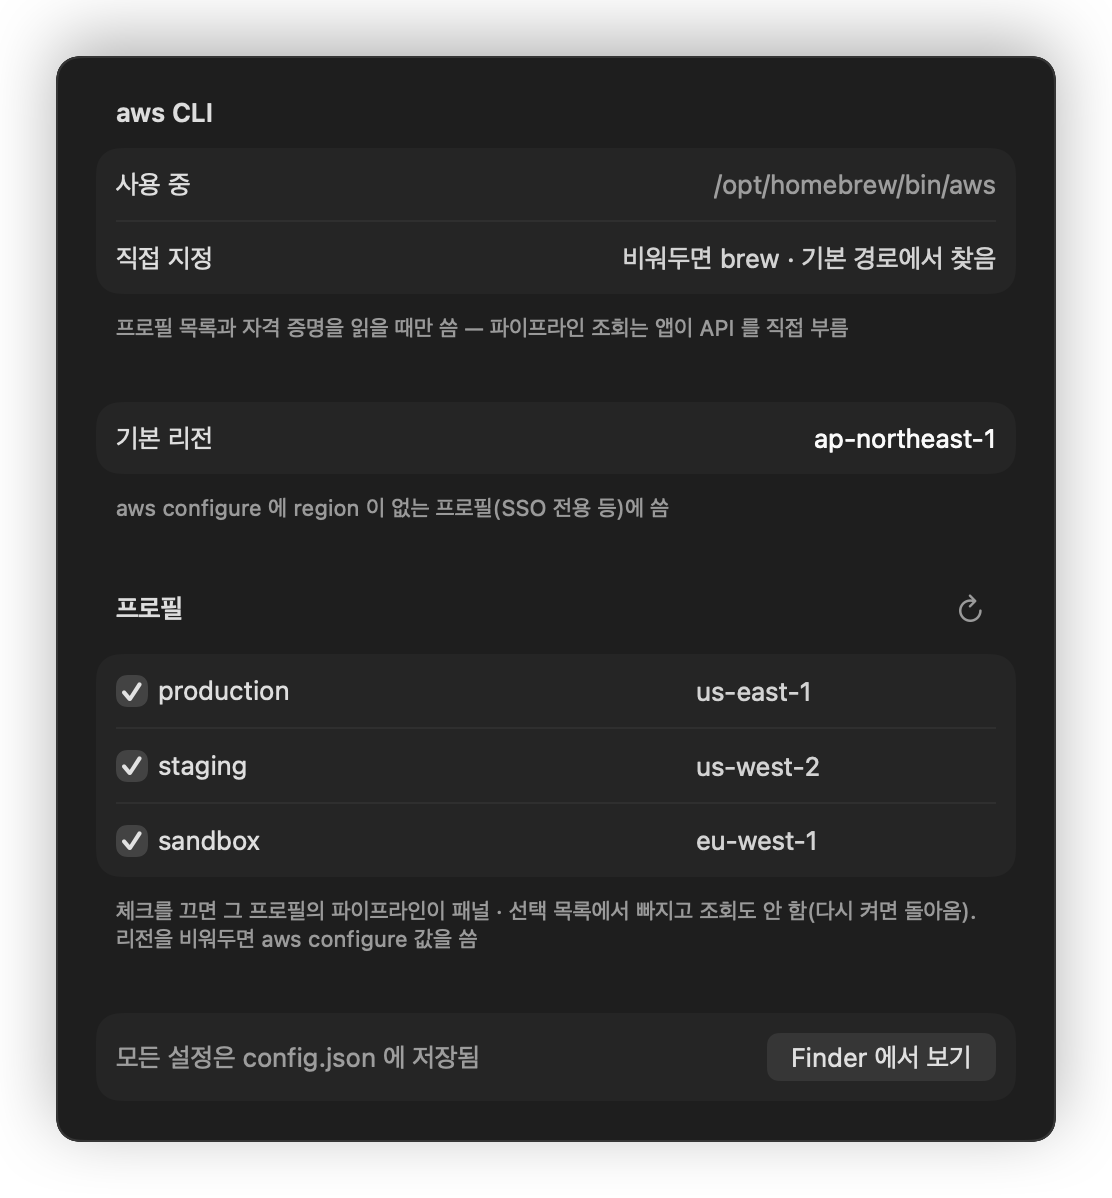
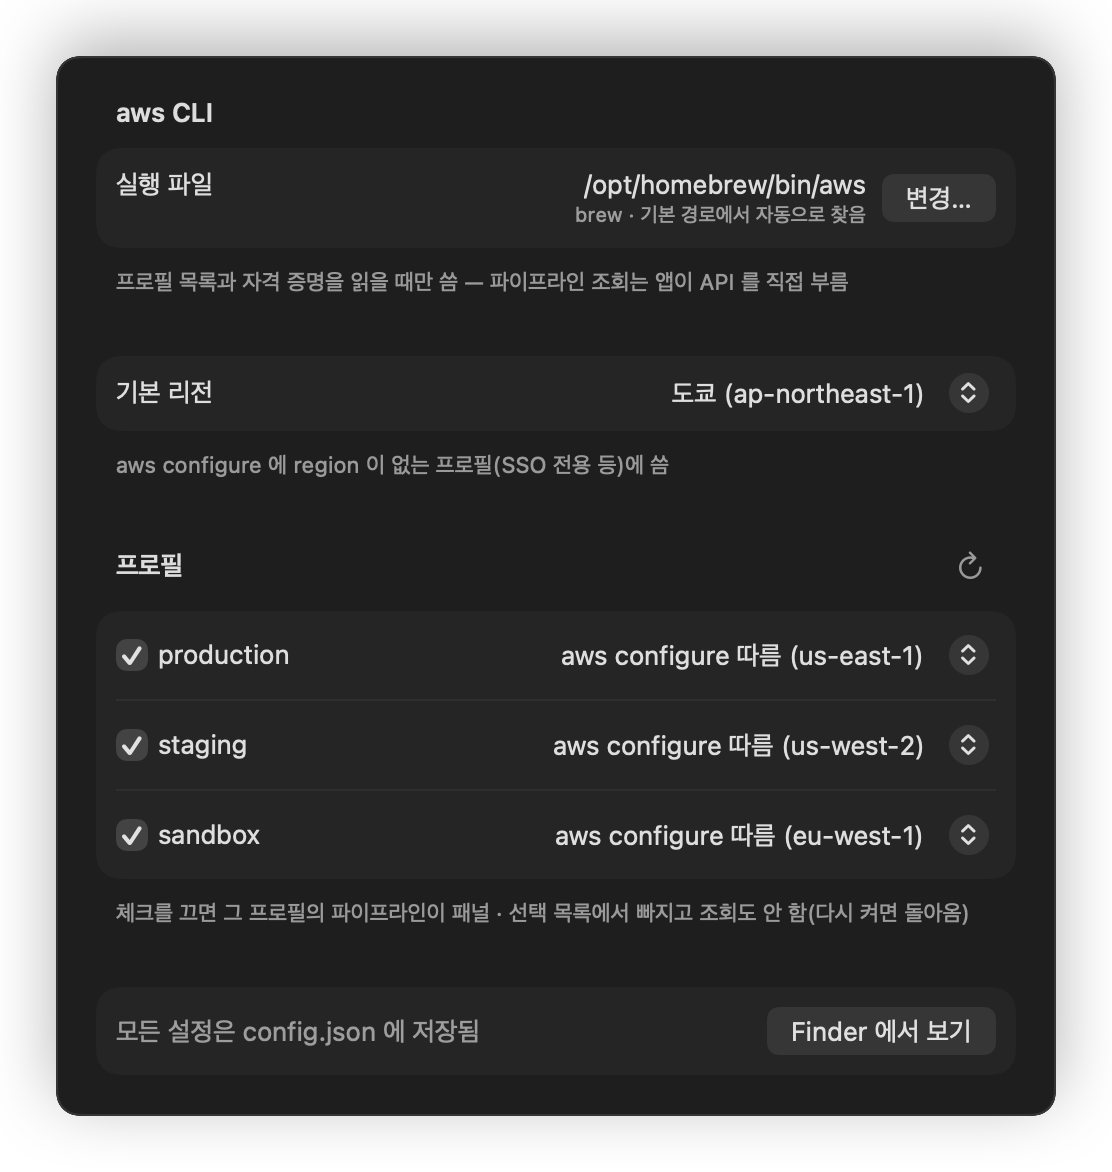
fix: 설정 창 입력을 버튼 · 선택 목록으로 바꿔 헷갈리지 않게
- aws 경로는 Finder 에서 고르는 변경… 버튼과 자동으로 되돌리기, 경로 글자는 선택 안 되게
- 기본 리전 · 프로필 리전은 이름이 붙은 리전 목록에서 고름, 프로필은 aws configure 값을 같이 보여줌
- 설정 창 제목이 Untitled 대신 탭 이름으로 뜨게

diff --git a/Sources/CrowsnestKit/Views/SettingsView.swift b/Sources/CrowsnestKit/Views/SettingsView.swift
@@ -30,6 +30,8 @@ enum SettingsWindow {
             .fixedSize(horizontal: false, vertical: maximumHeight == nil)
         let controller = NSHostingController(rootView: sized)
         controller.sizingOptions = .preferredContentSize
+        // 탭 컨트롤러가 이 이름을 창 제목으로 올림 — 없으면 Untitled 로 뜸
+        controller.title = label
         let item = NSTabViewItem(viewController: controller)
         item.label = label
         item.image = NSImage(systemSymbolName: symbol, accessibilityDescription: label)
@@ -155,20 +157,7 @@ struct AWSSettings: View {
     var body: some View {
         Form {
             Section {
-                LabeledContent("사용 중") {
-                    Text(store.awsCLIPath ?? "못 찾음")
-                        .foregroundStyle(store.awsCLIPath == nil ? .orange : .secondary)
-                        .textSelection(.enabled)
-                }
-                CommittingTextField(
-                    title: "직접 지정",
-                    placeholder: "비워두면 brew · 기본 경로에서 찾음",
-                    value: store.configuration.awsCLIPath ?? "",
-                    isValid: { $0.isEmpty || FileManager.default.isExecutableFile(atPath: $0) },
-                    invalidMessage: "실행할 수 있는 파일이 아님"
-                ) { path in
-                    store.updateConfiguration { $0.awsCLIPath = path.isEmpty ? nil : path }
-                }
+                AWSCLIPathRow(store: store)
             } header: {
                 Text("aws CLI")
             } footer: {
@@ -177,14 +166,8 @@ struct AWSSettings: View {
             }
 
             Section {
-                CommittingTextField(
-                    title: "기본 리전",
-                    placeholder: "ap-northeast-2",
-                    value: store.configuration.defaultRegion,
-                    isValid: AWSRegion.isValid,
-                    invalidMessage: "리전 형식이 아님 (예: ap-northeast-2)"
-                ) { region in
-                    store.updateConfiguration { $0.defaultRegion = region }
+                Picker("기본 리전", selection: setting(store, \.defaultRegion)) {
+                    RegionOptions(current: store.configuration.defaultRegion)
                 }
             } footer: {
                 Text("aws configure 에 region 이 없는 프로필(SSO 전용 등)에 씀")
@@ -238,16 +221,18 @@ private struct ProfileSettings: View {
                     }
                     .toggleStyle(.checkbox)
                     Spacer()
-                    CommittingTextField(
-                        title: nil,
-                        placeholder: catalog.region,
-                        value: store.configuration.regionOverrides[catalog.profile] ?? "",
-                        isValid: { $0.isEmpty || AWSRegion.isValid($0) },
-                        invalidMessage: "리전 형식이 아님"
-                    ) { region in
-                        store.updateConfiguration { $0.regionOverrides[catalog.profile] = region.isEmpty ? nil : region }
+                    Picker("리전", selection: Binding(
+                        get: { store.configuration.regionOverrides[catalog.profile] },
+                        set: { region in store.updateConfiguration { $0.regionOverrides[catalog.profile] = region } }
+                    )) {
+                        // 덮어쓰지 않았을 때 catalog.region 은 aws configure 에서 읽은 값
+                        let configured = store.configuration.regionOverrides[catalog.profile] == nil ? " (\(catalog.region))" : ""
+                        Text("aws configure 따름\(configured)").tag(String?.none)
+                        Divider()
+                        RegionOptions(current: store.configuration.regionOverrides[catalog.profile], asOptional: true)
                     }
-                    .frame(width: 150)
+                    .labelsHidden()
+                    .fixedSize()
                 }
             }
         } header: {
@@ -262,55 +247,83 @@ private struct ProfileSettings: View {
                 )
             }
         } footer: {
-            Text("체크를 끄면 그 프로필의 파이프라인이 패널 · 선택 목록에서 빠지고 조회도 안 함(다시 켜면 돌아옴). 리전을 비워두면 aws configure 값을 씀")
+            Text("체크를 끄면 그 프로필의 파이프라인이 패널 · 선택 목록에서 빠지고 조회도 안 함(다시 켜면 돌아옴)")
                 .foregroundStyle(.secondary)
         }
         .onAppear(perform: store.loadCatalogsIfNeeded)
     }
 }
 
-/// 글자마다 저장하면 연결을 매번 다시 만들어서 Enter 나 다른 곳을 누를 때만 반영
-private struct CommittingTextField: View {
-    let title: String?
-    let placeholder: String
-    let value: String
-    let isValid: (String) -> Bool
-    let invalidMessage: String
-    let commit: (String) -> Void
+/// 쓰는 aws 경로 — 직접 칠 일 없이 Finder 에서 고르고, 자동으로 찾기로 되돌림
+private struct AWSCLIPathRow: View {
+    let store: PipelineStore
+    @State private var pickError: String?
 
-    @State private var text = ""
-    @FocusState private var isFocused: Bool
-
-    private var trimmed: String { text.trimmingCharacters(in: .whitespaces) }
+    private var isCustom: Bool { store.configuration.awsCLIPath != nil }
 
     var body: some View {
-        VStack(alignment: .trailing, spacing: 3) {
-            TextField(title ?? "", text: $text, prompt: Text(placeholder))
-                .labelsHidden(title == nil)
-                .focused($isFocused)
-                .onSubmit(save)
-                .onChange(of: isFocused) { if !isFocused { save() } }
-            if !isValid(trimmed) {
-                Text(invalidMessage)
-                    .font(.caption)
-                    .foregroundStyle(.orange)
+        LabeledContent {
+            HStack(spacing: 8) {
+                VStack(alignment: .trailing, spacing: 1) {
+                    Text(store.awsCLIPath ?? "못 찾음")
+                        .foregroundStyle(store.awsCLIPath == nil ? .orange : .primary)
+                        .lineLimit(1)
+                        .truncationMode(.head)
+                    Text(isCustom ? "직접 고른 경로" : "brew · 기본 경로에서 자동으로 찾음")
+                        .font(.caption)
+                        .foregroundStyle(.secondary)
+                }
+                Button("변경…", action: choose)
+                if isCustom {
+                    Button("자동으로") { store.updateConfiguration { $0.awsCLIPath = nil } }
+                }
+            }
+        } label: {
+            Text("실행 파일")
+            if let pickError {
+                Text(pickError)
             }
         }
-        .onAppear { text = value }
-        .onChange(of: value) { if !isFocused { text = value } }
-        // 입력하다 창을 닫거나 탭을 바꾸면 포커스 변화가 안 와서 여기서도 저장
-        .onDisappear(perform: save)
     }
 
-    private func save() {
-        guard isValid(trimmed), trimmed != value else { return }
-        commit(trimmed)
+    private func choose() {
+        let panel = NSOpenPanel()
+        panel.message = "aws 실행 파일을 고르셈 (터미널에서 which aws 로 확인)"
+        panel.canChooseFiles = true
+        panel.canChooseDirectories = false
+        panel.allowsMultipleSelection = false
+        // /opt/homebrew/bin 같은 숨김 경로도 보여야 고를 수 있음
+        panel.showsHiddenFiles = true
+        panel.directoryURL = URL(fileURLWithPath: store.awsCLIPath.map { ($0 as NSString).deletingLastPathComponent } ?? "/usr/local/bin")
+        guard panel.runModal() == .OK, let url = panel.url else { return }
+        let path = url.path(percentEncoded: false)
+        guard FileManager.default.isExecutableFile(atPath: path) else {
+            pickError = "실행할 수 있는 파일이 아님"
+            return
+        }
+        pickError = nil
+        store.updateConfiguration { $0.awsCLIPath = path }
     }
 }
 
-private extension View {
-    @ViewBuilder
-    func labelsHidden(_ isHidden: Bool) -> some View {
-        if isHidden { labelsHidden() } else { self }
+/// 리전 목록 — 설정 파일에 목록에 없는 리전을 적어뒀어도 선택지에 보이게
+private struct RegionOptions: View {
+    let current: String?
+    var asOptional = false
+
+    private var codes: [String] {
+        let known = AWSRegion.known.map(\.code)
+        guard let current, !known.contains(current) else { return known }
+        return [current] + known
+    }
+
+    var body: some View {
+        ForEach(codes, id: \.self) { code in
+            if asOptional {
+                Text(AWSRegion.label(code)).tag(String?.some(code))
+            } else {
+                Text(AWSRegion.label(code)).tag(code)
+            }
+        }
     }
 }

diff --git a/Sources/CrowsnestKit/AWS/AWSRegion.swift b/Sources/CrowsnestKit/AWS/AWSRegion.swift
@@ -1,0 +1,47 @@
+import Foundation
+
+enum AWSRegion {
+    /// 설정 창에서 고를 수 있는 상용 리전 — 손으로 칠 때 나는 오타를 막으려고 목록으로 받음
+    static let known: [(code: String, name: String)] = [
+        ("ap-northeast-2", "서울"),
+        ("ap-northeast-1", "도쿄"),
+        ("ap-northeast-3", "오사카"),
+        ("ap-east-1", "홍콩"),
+        ("ap-southeast-1", "싱가포르"),
+        ("ap-southeast-2", "시드니"),
+        ("ap-southeast-3", "자카르타"),
+        ("ap-southeast-4", "멜버른"),
+        ("ap-south-1", "뭄바이"),
+        ("ap-south-2", "하이데라바드"),
+        ("us-east-1", "버지니아 북부"),
+        ("us-east-2", "오하이오"),
+        ("us-west-1", "캘리포니아 북부"),
+        ("us-west-2", "오리건"),
+        ("ca-central-1", "캐나다 중부"),
+        ("ca-west-1", "캘거리"),
+        ("sa-east-1", "상파울루"),
+        ("eu-west-1", "아일랜드"),
+        ("eu-west-2", "런던"),
+        ("eu-west-3", "파리"),
+        ("eu-central-1", "프랑크푸르트"),
+        ("eu-central-2", "취리히"),
+        ("eu-north-1", "스톡홀름"),
+        ("eu-south-1", "밀라노"),
+        ("eu-south-2", "스페인"),
+        ("me-south-1", "바레인"),
+        ("me-central-1", "아랍에미리트"),
+        ("il-central-1", "텔아비브"),
+        ("af-south-1", "케이프타운"),
+    ]
+
+    /// 서울 (ap-northeast-2) — 목록에 없는 리전은 코드만
+    static func label(_ code: String) -> String {
+        known.first { $0.code == code }.map { "\($0.name) (\(code))" } ?? code
+    }
+
+    /// ap-northeast-2 · us-gov-west-1 같은 모양만 — 호스트 이름에 들어가서 점 · 슬래시가 섞이면 안 됨
+    static func isValid(_ region: String) -> Bool {
+        // \d 는 다른 문자 체계의 숫자도 받아서 ASCII 숫자로 좁힘
+        region.wholeMatch(of: /[a-z]{2}(-[a-z]+)+-[0-9]+/) != nil
+    }
+}

diff --git a/Sources/CrowsnestKit/AWS/CodePipelineClient.swift b/Sources/CrowsnestKit/AWS/CodePipelineClient.swift
@@ -73,14 +73,6 @@ struct CodePipelineClient: Sendable {
     }
 }
 
-enum AWSRegion {
-    /// ap-northeast-2 · us-gov-west-1 같은 모양만 — 호스트 이름에 들어가서 점 · 슬래시가 섞이면 안 됨
-    static func isValid(_ region: String) -> Bool {
-        // \d 는 다른 문자 체계의 숫자도 받아서 ASCII 숫자로 좁힘
-        region.wholeMatch(of: /[a-z]{2}(-[a-z]+)+-[0-9]+/) != nil
-    }
-}
-
 /// {"__type": "com.amazonaws.codepipeline#PipelineNotFoundException", "message": "..."}
 private struct ServiceFailure: Decodable {
     let type: String?
